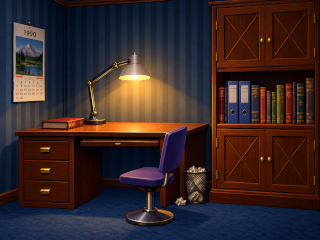
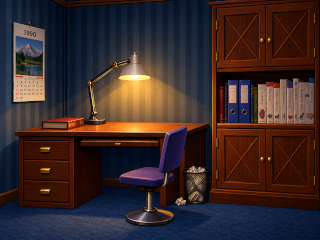
finish room study

Changed region(s): [[0.6875, 0.3208, 1.0, 0.525]]

diff --git a/source/rooms/room_study.c b/source/rooms/room_study.c
@@ -19,15 +19,6 @@ static C2D_Image img_paper_taken;
 static C2D_Image img_sliding_board;
 static C2D_Image img_top_drawer_opened;
 
-// STUDY_CALENDAR=Un calendrier de 1990
-// STUDY_BOOK=Un livre
-// STUDY_BOOK_MESSAGE=Un livre bien épais et qui,\npourtant, n'a pas de titre
-// STUDY_FOLDER=Un classeur
-// STUDY_BIN=Une corbeille à papier
-// STUDY_BIN_MESSAGE=A l'interieur, il n'y a que\nquelques papiers sans importance
-// STUDY_CLOSET=Une armoire
-// STUDY_CLOSET_OPENED=Dans ce placard,\nvous trouvez de nombreux papiers personnels\net pourtant sans valeur.
-
 static bool book_is_active(void) {
     return !inventory_has("BOOK");
 }
@@ -107,6 +98,22 @@ static bool paper_is_active(void) {
 
 static void paper_action(void) {
     inventory_add("PAPER");
+}
+
+static bool closet_opened(void) {
+    return gamestate_get("study_closet_opened");
+}
+
+static void closet_action(void) {
+    gamestate_set("study_closet_opened");
+}
+
+static bool closet_use_item(const char *id) {
+    if (strcmp(id, "KEY_ONE") == 0) {
+        game_show_message("STUDY_CLOSET_WITH_KEY");
+        return true;
+    }
+    return false;
 }
 
 static Hotspot hotspots[] = {
@@ -229,6 +236,62 @@ static Hotspot hotspots[] = {
         .id = "STUDY_BOARD",
         .action = board_action
     },
+    {
+        .x = 13,
+        .y = 23,
+        .width = 32,
+        .height = 80,
+        .id = "STUDY_CALENDAR"
+    },
+    {
+        .x = 228,
+        .y = 77,
+        .width = 22,
+        .height = 46,
+        .id = "STUDY_FOLDER"
+    },
+    {
+        .x = 250,
+        .y = 79,
+        .width = 64,
+        .height = 44,
+        .id = "STUDY_BOOK"
+    },
+    {
+        .x = 185,
+        .y = 166,
+        .width = 25,
+        .height = 38,
+        .message_id = "STUDY_BIN_MESSAGE",
+        .id = "STUDY_BIN"
+    },
+    {
+        .x = 215,
+        .y = 3,
+        .width = 102,
+        .height = 65,
+        .message_id = "STUDY_CLOSET_OPENED",
+        .id = "STUDY_CLOSET",
+        .condition = closet_opened,
+        .action = closet_action
+    },
+    {
+        .x = 215,
+        .y = 3,
+        .width = 102,
+        .height = 65,
+        .id = "STUDY_CLOSET",
+        .action = closet_action
+    },
+    {
+        .x = 215,
+        .y = 128,
+        .width = 102,
+        .height = 63,
+        .message_id = "STUDY_CLOSET_BOTTOM",
+        .id = "STUDY_CLOSET",
+        .use_item = closet_use_item
+    }
 };
 
 static void room_init(void) {

diff --git a/source/game.c b/source/game.c
@@ -159,7 +159,6 @@ void game_start(void) {
     game_mode = GAME_NORMAL;
     message_text = NULL;
     active_hotspot = NULL;
-    inventory_add("LIGHTBULB");
     music_play("romfs:/audio/background.ogg");
     game_set_room(&hall);
 }
@@ -330,8 +329,6 @@ static void update_touch(touchPosition touch) {
             game_show_message(hotspot->message_id);
             return;
         }
-
-        //return;
     }
 
     if (hotspot->action) {

diff --git a/source/rooms/room_firstbedroom.c b/source/rooms/room_firstbedroom.c
@@ -167,7 +167,8 @@ static Hotspot hotspots[] = {
         .y = 113,
         .width = 10,
         .height = 12,
-        .id = "FIRSTBEDROOM_CLOSET_INVOICE",
+        .id = "FIRSTBEDROOM_CLOSET",
+        .message_id = "FIRSTBEDROOM_CLOSET_INVOICE",
         .condition = invoice_is_active,
         .action = invoice_action
     },
